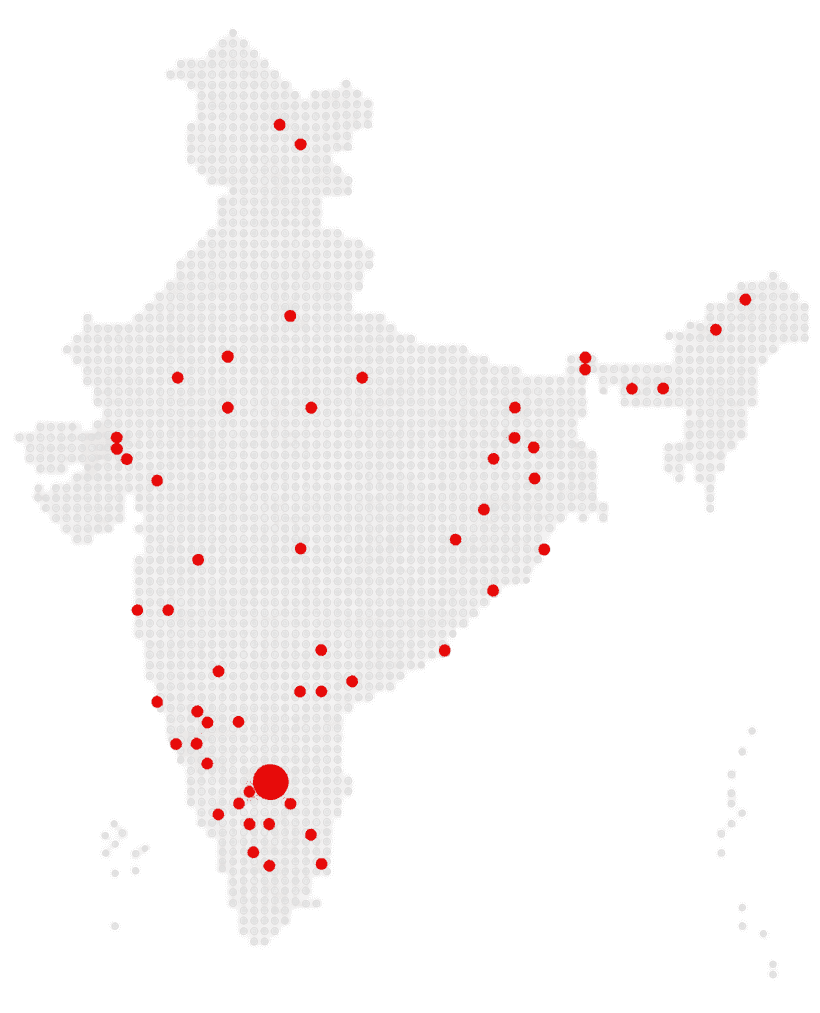
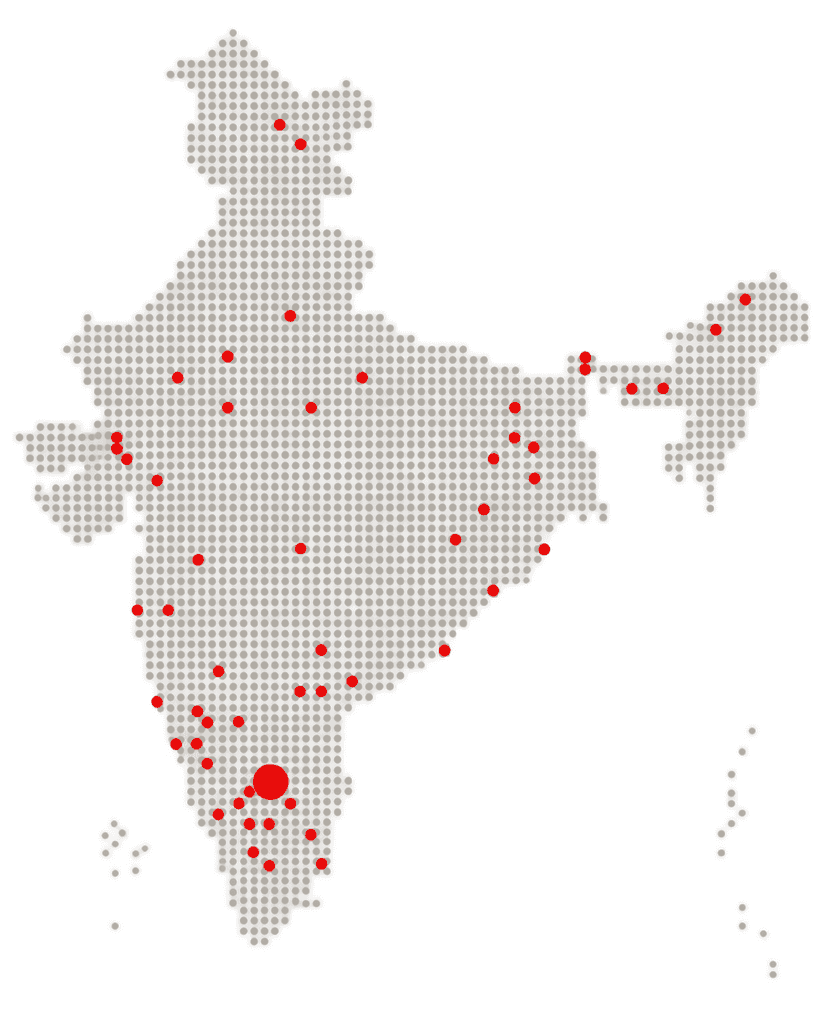
Lighter hero paragraphs, a legible map, four more collaborators
Hero: both paragraphs drop another step while the keywords hold. The statement
runs at 400 against keywords at 800, the lede at 300 against 700. Abhaya Libre
400 and Manrope 300 had to be added to the font request -- neither cut was
being loaded, so asking for them in CSS alone would have silently rendered the
next weight up.

Map: the ground goes back to light. The real problem was never the background
but the drawing -- its dots are a neutral #AEAEAE, which washes out on anything
pale. They are recoloured to a warm #6E6455, keeping each dot's own shading and
leaving the saturated red markers untouched, so on the light ground the dots
read at 5.1:1 and the markers at 3.5:1. Tried moss and a dark soil ground too;
the darker ground scored better on the dots but dropped the markers to 2.8:1,
and the markers are the information. A hairline separates the figure from the
panel.

Collaborators: the four supplied logos join their groups -- Landartistry and
DA Architects with the design studios, Deshpande Foundation with the ecology
and organisations, Christ University with the academic institutions. Twenty-one
now, still one continuous run.

Converting them needed care: a JPEG's white is usually #F7F7F7, which shows as
a faint square against a pure-white tile, so near-white is snapped before
trimming; each mark then gets an 8px inset so it does not sit flush to the tile
edge. Landartistry keeps its red ground, which is the mark itself.
[…]

Changed region(s): [[0.0305, 0.0306, 1.0, 0.9487], [0.8841, 0.7651, 0.9146, 0.7957], [0.122, 0.7957, 0.1524, 0.8263]]

diff --git a/src/index.html b/src/index.html
@@ -38,7 +38,7 @@
 <meta name="twitter:image:alt" content="Painted stork, grey heron and bar-headed geese in a restored wetland, with the words The Bhu.Van Project.">
 <link rel="preconnect" href="https://fonts.googleapis.com">
 <link rel="preconnect" href="https://fonts.gstatic.com" crossorigin>
-<link href="https://fonts.googleapis.com/css2?family=Abhaya+Libre:wght@500;600;700;800&family=Manrope:wght@400;500;600;700&display=swap" rel="stylesheet">
+<link href="https://fonts.googleapis.com/css2?family=Abhaya+Libre:wght@400;500;600;700;800&family=Manrope:wght@300;400;500;600;700&display=swap" rel="stylesheet">
 <style>
 /* Tokens hoisted so pages other than home/about can use them. The original
    per-page declarations still win on specificity, so nothing else changes. */
@@ -933,7 +933,8 @@ body{margin:0}
    a step below the face's normal display weight so the phrase lifts off it
    without breaking the line's rhythm, and takes the full off-white while the
    surrounding copy stays slightly back. */
-#page-home .hero-statement{font-weight:500}
+#page-home .hero-statement{font-weight:400}
+#page-home .hero-lede{font-weight:300}
 #page-home .hero-key{display:inline;color:#FFF;text-shadow:0 2px 22px rgba(42,31,8,.55)}
 #page-home .hero-statement .hero-key{font-weight:800;letter-spacing:-.025em}
 #page-home .hero-lede .hero-key{font-weight:700;letter-spacing:-.005em}
@@ -949,7 +950,7 @@ body{margin:0}
 /* ---------- Map panel ----------
    The drawing's dots are #AEAEAE. On the cream they measured 1.8:1 and washed
    out; on soil they are 6.4:1, and the red site markers 3.6:1. */
-#page-home .map-panel-figure{background:var(--soil)}
+#page-home .map-panel-figure{background:var(--light);border:1px solid rgba(55,40,7,.14)}
 #page-home .map-panel-figure img{max-height:min(440px,44svh)}
 
 /* At 1440x700 the body column ran 101px past the panel and cut the keywords
@@ -1054,7 +1055,7 @@ body{margin:0}
   <div class="about-bottom">
     <div class="wrap">
       <p class="label collab-head">Collaborators and partner firms</p>
-      <div class="collab-grid" data-reveal><div class="collab-item"><img src="images/partners/01.png" alt="Souk" loading="lazy"></div><div class="collab-item"><img src="images/partners/02.png" alt="Collaborator logo" loading="lazy"></div><div class="collab-item"><img src="images/partners/03.png" alt="apt" loading="lazy"></div><div class="collab-item"><img src="images/partners/04.png" alt="Collaborator logo" loading="lazy"></div><div class="collab-item"><img src="images/partners/05.png" alt="Collaborator logo" loading="lazy"></div><div class="collab-item"><img src="images/partners/06.png" alt="Junglescapes" loading="lazy"></div><div class="collab-item"><img src="images/partners/07.png" alt="Punarchith" loading="lazy"></div><div class="collab-item"><img src="images/partners/08.png" alt="Biome Farms" loading="lazy"></div><div class="collab-item"><img src="images/partners/09.png" alt="Ananda Marga Pracaraka Samgha" loading="lazy"></div><div class="collab-item"><img src="images/partners/15.png" alt="South Western Railway, Indian Railways" loading="lazy"></div><div class="collab-item"><img src="images/partners/16.png" alt="Brahma Kumaris" loading="lazy"></div><div class="collab-item"><img src="images/partners/17.png" alt="Tophills77" loading="lazy"></div><div class="collab-item"><img src="images/partners/10.png" alt="Wadiyar Centre for Architecture" loading="lazy"></div><div class="collab-item"><img src="images/partners/11.png" alt="DSCA" loading="lazy"></div><div class="collab-item"><img src="images/partners/12.png" alt="BMS College of Architecture" loading="lazy"></div><div class="collab-item"><img src="images/partners/13.png" alt="Bangalore University" loading="lazy"></div><div class="collab-item"><img src="images/partners/14.png" alt="BVBCET, KLE Society" loading="lazy"></div></div>
+      <div class="collab-grid" data-reveal><div class="collab-item"><img src="images/partners/01.png" alt="Souk" loading="lazy"></div><div class="collab-item"><img src="images/partners/02.png" alt="Collaborator logo" loading="lazy"></div><div class="collab-item"><img src="images/partners/03.png" alt="apt" loading="lazy"></div><div class="collab-item"><img src="images/partners/04.png" alt="Collaborator logo" loading="lazy"></div><div class="collab-item"><img src="images/partners/05.png" alt="Collaborator logo" loading="lazy"></div><div class="collab-item"><img src="images/partners/18.png" alt="Landartistry Solutions" loading="lazy"></div><div class="collab-item"><img src="images/partners/19.png" alt="DA Architects" loading="lazy"></div><div class="collab-item"><img src="images/partners/06.png" alt="Junglescapes" loading="lazy"></div><div class="collab-item"><img src="images/partners/07.png" alt="Punarchith" loading="lazy"></div><div class="collab-item"><img src="images/partners/08.png" alt="Biome Farms" loading="lazy"></div><div class="collab-item"><img src="images/partners/09.png" alt="Ananda Marga Pracaraka Samgha" loading="lazy"></div><div class="collab-item"><img src="images/partners/15.png" alt="South Western Railway, Indian Railways" loading="lazy"></div><div class="collab-item"><img src="images/partners/16.png" alt="Brahma Kumaris" loading="lazy"></div><div class="collab-item"><img src="images/partners/17.png" alt="Tophills77" loading="lazy"></div><div class="collab-item"><img src="images/partners/20.png" alt="Deshpande Foundation" loading="lazy"></div><div class="collab-item"><img src="images/partners/10.png" alt="Wadiyar Centre for Architecture" loading="lazy"></div><div class="collab-item"><img src="images/partners/11.png" alt="DSCA" loading="lazy"></div><div class="collab-item"><img src="images/partners/12.png" alt="BMS College of Architecture" loading="lazy"></div><div class="collab-item"><img src="images/partners/13.png" alt="Bangalore University" loading="lazy"></div><div class="collab-item"><img src="images/partners/14.png" alt="BVBCET, KLE Society" loading="lazy"></div><div class="collab-item"><img src="images/partners/21.png" alt="Christ University" loading="lazy"></div></div>
     </div>
   </div>
 </section>
@@ -1479,7 +1480,7 @@ body{margin:0}
       <h2 class="sec-title">Collaborators<span class="sec-kicker">.</span></h2>
       <span class="sec-label">Partners &amp; institutions</span>
     </div>
-    <div class="collab-grid"><div class="collab-item"><img src="images/partners/01.png" alt="Souk" loading="lazy"></div><div class="collab-item"><img src="images/partners/02.png" alt="Collaborator logo" loading="lazy"></div><div class="collab-item"><img src="images/partners/03.png" alt="apt" loading="lazy"></div><div class="collab-item"><img src="images/partners/04.png" alt="Collaborator logo" loading="lazy"></div><div class="collab-item"><img src="images/partners/05.png" alt="Collaborator logo" loading="lazy"></div><div class="collab-item"><img src="images/partners/06.png" alt="Junglescapes" loading="lazy"></div><div class="collab-item"><img src="images/partners/07.png" alt="Punarchith" loading="lazy"></div><div class="collab-item"><img src="images/partners/08.png" alt="Biome Farms" loading="lazy"></div><div class="collab-item"><img src="images/partners/09.png" alt="Ananda Marga Pracaraka Samgha" loading="lazy"></div><div class="collab-item"><img src="images/partners/15.png" alt="South Western Railway, Indian Railways" loading="lazy"></div><div class="collab-item"><img src="images/partners/16.png" alt="Brahma Kumaris" loading="lazy"></div><div class="collab-item"><img src="images/partners/17.png" alt="Tophills77" loading="lazy"></div><div class="collab-item"><img src="images/partners/10.png" alt="Wadiyar Centre for Architecture" loading="lazy"></div><div class="collab-item"><img src="images/partners/11.png" alt="DSCA" loading="lazy"></div><div class="collab-item"><img src="images/partners/12.png" alt="BMS College of Architecture" loading="lazy"></div><div class="collab-item"><img src="images/partners/13.png" alt="Bangalore University" loading="lazy"></div><div class="collab-item"><img src="images/partners/14.png" alt="BVBCET, KLE Society" loading="lazy"></div></div>
+    <div class="collab-grid"><div class="collab-item"><img src="images/partners/01.png" alt="Souk" loading="lazy"></div><div class="collab-item"><img src="images/partners/02.png" alt="Collaborator logo" loading="lazy"></div><div class="collab-item"><img src="images/partners/03.png" alt="apt" loading="lazy"></div><div class="collab-item"><img src="images/partners/04.png" alt="Collaborator logo" loading="lazy"></div><div class="collab-item"><img src="images/partners/05.png" alt="Collaborator logo" loading="lazy"></div><div class="collab-item"><img src="images/partners/18.png" alt="Landartistry Solutions" loading="lazy"></div><div class="collab-item"><img src="images/partners/19.png" alt="DA Architects" loading="lazy"></div><div class="collab-item"><img src="images/partners/06.png" alt="Junglescapes" loading="lazy"></div><div class="collab-item"><img src="images/partners/07.png" alt="Punarchith" loading="lazy"></div><div class="collab-item"><img src="images/partners/08.png" alt="Biome Farms" loading="lazy"></div><div class="collab-item"><img src="images/partners/09.png" alt="Ananda Marga Pracaraka Samgha" loading="lazy"></div><div class="collab-item"><img src="images/partners/15.png" alt="South Western Railway, Indian Railways" loading="lazy"></div><div class="collab-item"><img src="images/partners/16.png" alt="Brahma Kumaris" loading="lazy"></div><div class="collab-item"><img src="images/partners/17.png" alt="Tophills77" loading="lazy"></div><div class="collab-item"><img src="images/partners/20.png" alt="Deshpande Foundation" loading="lazy"></div><div class="collab-item"><img src="images/partners/10.png" alt="Wadiyar Centre for Architecture" loading="lazy"></div><div class="collab-item"><img src="images/partners/11.png" alt="DSCA" loading="lazy"></div><div class="collab-item"><img src="images/partners/12.png" alt="BMS College of Architecture" loading="lazy"></div><div class="collab-item"><img src="images/partners/13.png" alt="Bangalore University" loading="lazy"></div><div class="collab-item"><img src="images/partners/14.png" alt="BVBCET, KLE Society" loading="lazy"></div><div class="collab-item"><img src="images/partners/21.png" alt="Christ University" loading="lazy"></div></div>
   </div>
 </section>
 
